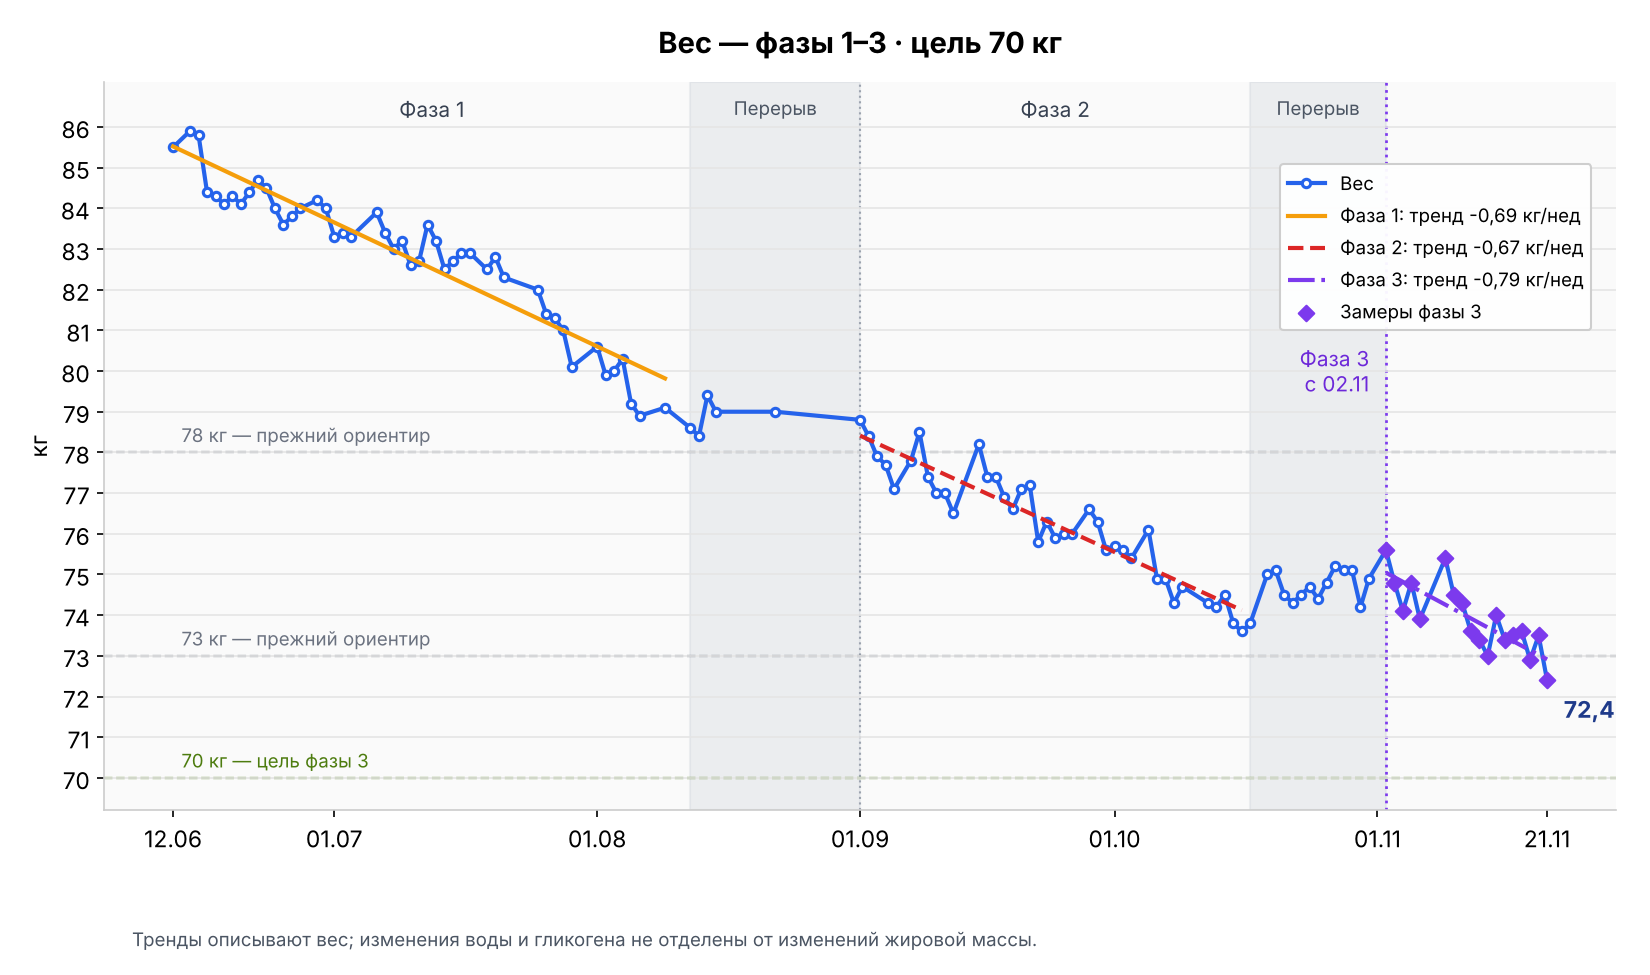
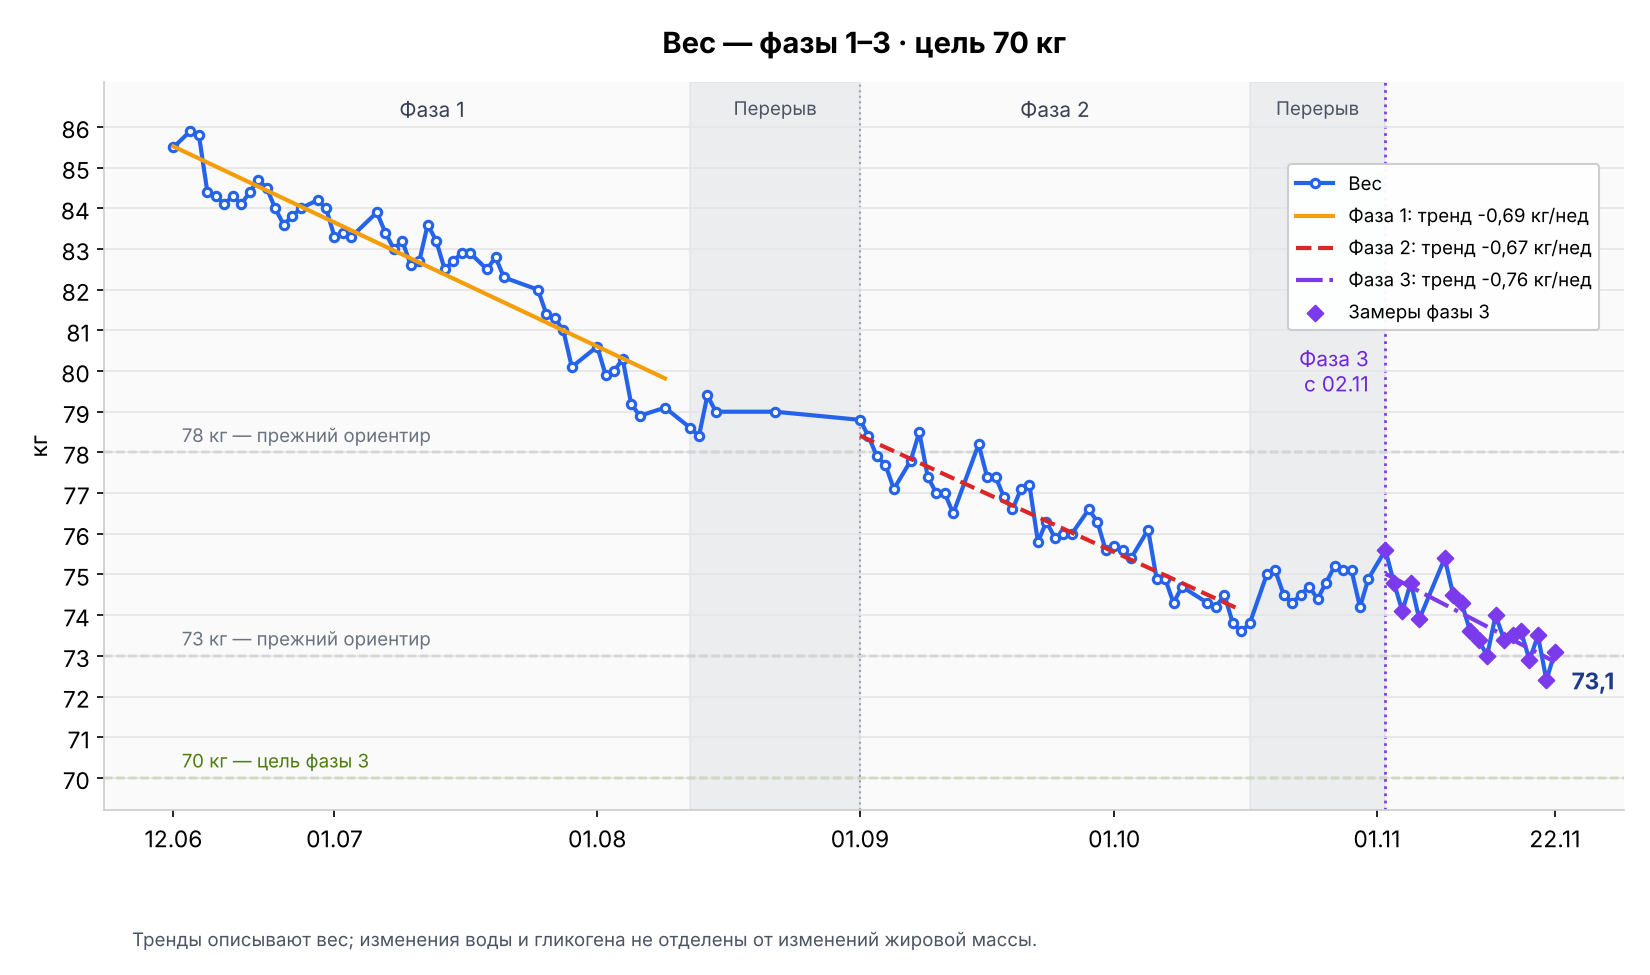
Вес 22.11: 73,1 кг; закрыт день 21.11
+0,7 кг после субботы — вода и объём еды. Среднее недели 73,20 против
74,03. День 21.11 отмечен завершённым (~2432 ккал). Графики перестроены.

Claude-Session: https://claude.ai/code/session_01BcPogZpufV1jxrQv9Sbikk

diff --git a/health/журнал-еды.md b/health/журнал-еды.md
@@ -11,7 +11,7 @@
 
 | Дата | Кратко | Ккал | Белок |
 |---|---|---|---|
-| 21.11 (сб) | фаза 3, день 20 · суббота, потолок 2500 ккал · утром 72,4 (минимум плана) · 🏋 зал, ноги + плечи, лёгкая неделя: жим ногами 100×20 · «Латте Попкорн» 324 г / завтрак куриное филе 200 г + молоко 1,5% 171 г + брокколи 344 г + 2 варёных яйца / высокобелковое молоко 450 г / куриное филе 190 г / молоко 1,5% 140 г + овощи 367 г / молоко 1,5% 322 г / [ВиТ] раф 300 мл / яблоки 403 г + апельсины 300 г / помидоры 200 г / ещё яблоки 280 г (день идёт) | ~2432＋ | ~207＋ г |
+| 21.11 (сб) | фаза 3, день 20 · суббота, потолок 2500 ккал · утром 72,4 (минимум плана) · 🏋 зал, ноги + плечи, лёгкая неделя: жим ногами 100×20 · «Латте Попкорн» 324 г / завтрак куриное филе 200 г + молоко 1,5% 171 г + брокколи 344 г + 2 варёных яйца / высокобелковое молоко 450 г / куриное филе 190 г / молоко 1,5% 140 г + овощи 367 г / молоко 1,5% 322 г / [ВиТ] раф 300 мл / яблоки 403 г + апельсины 300 г / помидоры 200 г / ещё яблоки 280 г · день завершён, ~68 до субботнего потолка; неделя +113 | ~2432 | ~207 г |
 | 20.11 (пт) | фаза 3, день 19 · цель 1900 ккал · утром 73,5 · завтрак яблоки 201 г + мандарины 120 г + куриное филе 189 г + 2 варёных яйца / сливки 10% 40 г / [Делимарше] салат «Весна» ~100 г + рассольник овощной + курица по-абхазски + гречка зелёная / курица с запечённым чесноком 336 г / ужин джекфрут 78 г + мандарины 68 г + сливы 186 г + яблоки 117 г / ещё джекфрут 73 г / ещё яблоки 142 г / мандарины 186 г · день завершён, +106 к цели | ~2006 | ~178 г |
 | 19.11 (чт) | фаза 3, день 18 · цель 1900 ккал · утром 72,9 (минимум плана) · 🏋 зал, грудь + бицепс, лёгкая неделя (по 20 повторений) · завтрак мандарины 162 г + яблоки 242 г + сливы 208 г + 2 варёных яйца + варёные брокколи, цветная капуста и морковь 323 г / перекус молоко 1,5% 200 г + мандарины 84 г + сливы 193 г / сливы 200 г + курица с прованскими травами 200 г / обезжиренный творог 174 г / ещё варёные овощи 331 г / молоко 1,5% 150 г / ужин куриное филе 200 г + яблоки 285 г / овощной микс 318 г + ещё 258 г · день завершён, ровно в цель | ~1902 | ~179 г |
 | 18.11 (ср) | фаза 3, день 17 · цель 1900 ккал · утром 73,6 · [Сбер] завтрак варёная грудка 344 г + дыня 334 г + хрен 1 ч. л. / сливки 10% 20 г + ещё 40 г / [Делимарше] суп из кабачков с тофу + кабачки с морковью и карри + индейка с шалфеем + курица в кокосовом молоке + апельсины и мандарины 294 г / [ВиТ] капучино 300 мл / ужин яблоки 418 г + курица с прованскими травами 200 г + брокколи и цветная капуста 314 г / молоко 1,5% 100 г · день завершён, ровно в цель | ~1898 | ~222 г |
@@ -167,7 +167,7 @@
 
 ## 21 ноября (сб) — фаза 3, день 20 · утром 72,4
 
-День в процессе. **Субботний потолок — 2500 ккал** (чтобы закрыть неделю в ноль — ~2320). Белок — ориентир **150 г (140–160)**; отдельных субботних целей по жирам и углеводам нет (справочно — Ж 60 / У 190 обычного дня). Тренировка в зале: ноги + плечи, лёгкая неделя волнового цикла — детали в [журнале тренировок](тренировки.md).
+День завершён. **Субботний потолок — 2500 ккал** (чтобы закрыть неделю в ноль — ~2320). Белок — ориентир **150 г (140–160)**; отдельных субботних целей по жирам и углеводам нет (справочно — Ж 60 / У 190 обычного дня). Тренировка в зале: ноги + плечи, лёгкая неделя волнового цикла — детали в [журнале тренировок](тренировки.md).
 
 | Приём | Что | Ккал | Б | Ж | У |
 |---|---|---|---|---|---|
@@ -188,7 +188,7 @@
 | | *фрукты итого* | *~318* | *~4,3* | *~2,2* | *~63,8* |
 | Дополнительно | помидоры 200 г (18/100г, Б ~0,9 / Ж ~0,2 / У ~3,9) | ~36 | ~1,8 | ~0,4 | ~7,8 |
 | | ещё яблоки 280 г (~47/100г, Б ~0,4 / Ж ~0,4 / У ~9,8; очищенный вес) | ~132 | ~1,1 | ~1,1 | ~27,4 |
-| **Пока за день** | | **~2432** | **~207,0** | **~69,9** | **~244,1** |
+| **Итого** | | **~2432** | **~207,0** | **~69,9** | **~244,1** |
 
 Заметка: «Латте Попкорн» по фото экрана меню: 324 г, 208 ккал / Б 6,5 / Ж 6,5 / У 31 г за порцию (по БЖУ ~208 ккал — значения согласованы). Заведение на фото не указано; похоже на «Вкусно — и точка», как 14.11. До субботнего потолка 2500 ккал осталось 2292 ккал; до белка 140–160 г — 133,5–153,5 г; справочно до Ж 60 — 53,5 г, до У 190 — 159 г. Завтрак: куриное филе 200 г по КБЖУ пользователя 113,8/24,4/1,8/0 — 227,600 ккал / Б 48,800 / Ж 3,600 / У 0; молоко 1,5% 171 г (44,3/3/1,5/4,7) — 75,753 / 5,130 / 2,565 / 8,037; брокколи варёная 344 г — этикетки нет, справочная оценка 35/2,4/0,4/7,2 — 120,400 / 8,256 / 1,376 / 24,768; яйца варёные 109 г, 2 шт. (155/12,6/10,6/1,1) — 168,950 / 13,734 / 11,554 / 1,199. Завтрак всего 592,703 ккал / Б 75,920 / Ж 19,095 / У 34,004 г. За день 800,703 ккал / Б 82,420 / Ж 25,595 / У 65,004 г. До субботнего потолка 2500 ккал осталось 1699,297 ккал (до ~2320 — ~1519); до белка 140–160 г — 57,580–77,580 г; справочно до Ж 60 — 34,405 г, до У 190 — 124,996 г. Добавлено высокобелковое молоко 450 г по КБЖУ пользователя 72,3/10/1,5/4,7 — 325,350 ккал / Б 45,000 / Ж 6,750 / У 21,150 г. За день 1126,053 ккал / Б 127,420 / Ж 32,345 / У 86,154 г. До субботнего потолка 2500 ккал осталось 1373,947 ккал (до ~2320 — ~1194); до белка 140–160 г — 12,580–32,580 г; справочно до Ж 60 — 27,655 г, до У 190 — 103,846 г. Добавлено куриное филе 190 г — то же, что на завтрак (113,8/24,4/1,8/0): 216,220 ккал / Б 46,360 / Ж 3,420 / У 0. За день 1342,273 ккал / Б 173,780 / Ж 35,765 / У 86,154 г. До субботнего потолка 2500 ккал осталось 1157,727 ккал (до ~2320 — ~978); белок выше диапазона 140–160 г на 13,780 г; справочно до Ж 60 — 24,235 г, до У 190 — 103,846 г. Добавлены молоко 1,5% 140 г (44,3/3/1,5/4,7) — 62,020 ккал / Б 4,200 / Ж 2,100 / У 6,580 г и овощи (морковь, брокколи, цветная капуста) 367 г по оценке смеси от 19.11 (31/1,7/0,4/5,5) — 113,770 / 6,239 / 1,468 / 20,185. За день 1518,063 ккал / Б 184,219 / Ж 39,333 / У 112,919 г. До субботнего потолка 2500 ккал осталось 981,937 ккал (до ~2320 — ~802); белок выше диапазона 140–160 г на 24,219 г; справочно до Ж 60 — 20,667 г, до У 190 — 77,081 г. Добавлено молоко 1,5% 322 г (44,3/3/1,5/4,7) — 142,646 ккал / Б 9,660 / Ж 4,830 / У 15,134 г. За день 1660,709 ккал / Б 193,879 / Ж 44,163 / У 128,053 г. До субботнего потолка 2500 ккал осталось 839,291 ккал (до ~2320 — ~659); белок выше диапазона 140–160 г на 33,879 г; справочно до Ж 60 — 15,837 г, до У 190 — 61,947 г. Добавлен раф 300 мл по скриншоту приложения «Вкусно — и точка» (оформление как 14.11): 285 ккал / Б 5,9 / Ж 22 / У 17 г за порцию. За день ~1945,7 ккал / Б ~199,8 / Ж ~66,2 / У ~145,1 г. До субботнего потолка 2500 ккал осталось ~554,3 ккал (до ~2320 — ~374); белок выше диапазона 140–160 г на ~39,8 г; справочно Ж выше ориентира обычного дня на ~6,2 г, до У 190 — ~44,9 г. Добавлены очищенные яблоки 403 г (47/0,4/0,4/9,8) — 189,410 ккал / Б 1,612 / Ж 1,612 / У 39,494 г и апельсины 300 г (43/0,9/0,2/8,1) — 129,000 / 2,700 / 0,600 / 24,300; вместе 318,410 ккал / Б 4,312 / Ж 2,212 / У 63,794 г. За день ~2264,1 ккал / Б ~204,1 / Ж ~68,4 / У ~208,8 г. До субботнего потолка 2500 ккал осталось ~235,9 ккал (до ~2320 — ~56); белок выше диапазона на ~44,1 г; справочно Ж выше ориентира обычного дня на ~8,4 г, У — на ~18,8 г. Неделя 16–21.11 (пн–сб): ~11 945 ккал при плане 12 000 — около −55. Добавлены помидоры 200 г (18/0,9/0,2/3,9) — 36,000 ккал / Б 1,800 / Ж 0,400 / У 7,800 г. За день ~2300,1 ккал / Б ~205,9 / Ж ~68,8 / У ~216,6 г. До субботнего потолка 2500 ккал осталось ~199,9 ккал (до ~2320 — ~20). Неделя пн–сб: ~11 981 ккал, около −19 к плану. Добавлены ещё яблоки 280 г (47/0,4/0,4/9,8) — 131,600 ккал / Б 1,120 / Ж 1,120 / У 27,440 г. За день ~2431,7 ккал / Б ~207,0 / Ж ~69,9 / У ~244,1 г. До субботнего потолка 2500 ккал осталось ~68,3 ккал. Неделя пн–сб: ~12 113 ккал, около +113 к плану 12 000.
 

diff --git a/health/журнал-веса.md b/health/журнал-веса.md
@@ -159,6 +159,7 @@
 | 19 ноября | 72,9 кг | чт; **фаза 3, день 18**. −0,7 кг к предыдущему замеру 18.11; **новый минимум плана** (прежний — 73,0 14.11); −2,7 кг от старта фазы 3 (75,6 кг, 02.11); −12,6 кг от стартовой оценки 85,5 кг. Накануне ~1898 ккал |
 | 20 ноября | 73,5 кг | пт; **фаза 3, день 19**. +0,6 кг к предыдущему замеру 19.11 — вода: накануне тренировка груди и бицепса на 20 повторений (22 подхода, 220 повторений на бицепс), ~1,2 кг овощей и ~1,3 кг фруктов (большой объём в ЖКТ); калории ~1902 — в цель; −2,1 кг от старта фазы 3 (75,6 кг, 02.11); −12,0 кг от стартовой оценки 85,5 кг |
 | 21 ноября | 72,4 кг | сб; **фаза 3, день 20**. −1,1 кг к предыдущему замеру 20.11 (вода после тренировки 19.11 ушла); **новый минимум плана** (прежний — 72,9 19.11); −3,2 кг от старта фазы 3 (75,6 кг, 02.11); −13,1 кг от стартовой оценки 85,5 кг. Накануне ~2006 ккал |
+| 22 ноября | 73,1 кг | вс; **фаза 3, день 21**. +0,7 кг к предыдущему замеру 21.11 после субботы ~2432 ккал: тренировка ног и плеч на 20 повторений, ~1,2 кг фруктов, ~0,7 кг овощей, ~1 л молока, ~244 г углеводов (гликоген с водой). Ниже поддержания — не жир; −2,5 кг от старта фазы 3 (75,6 кг, 02.11); −12,4 кг от стартовой оценки 85,5 кг. Среднее недели 16–22.11 — 73,20 кг (неделя 09–15.11 — 74,03) |
 | 7 ноября | — | сб; **фаза 3, день 6**. Пользователь забыл взвеситься; замер пропущен |
 
 ### График
